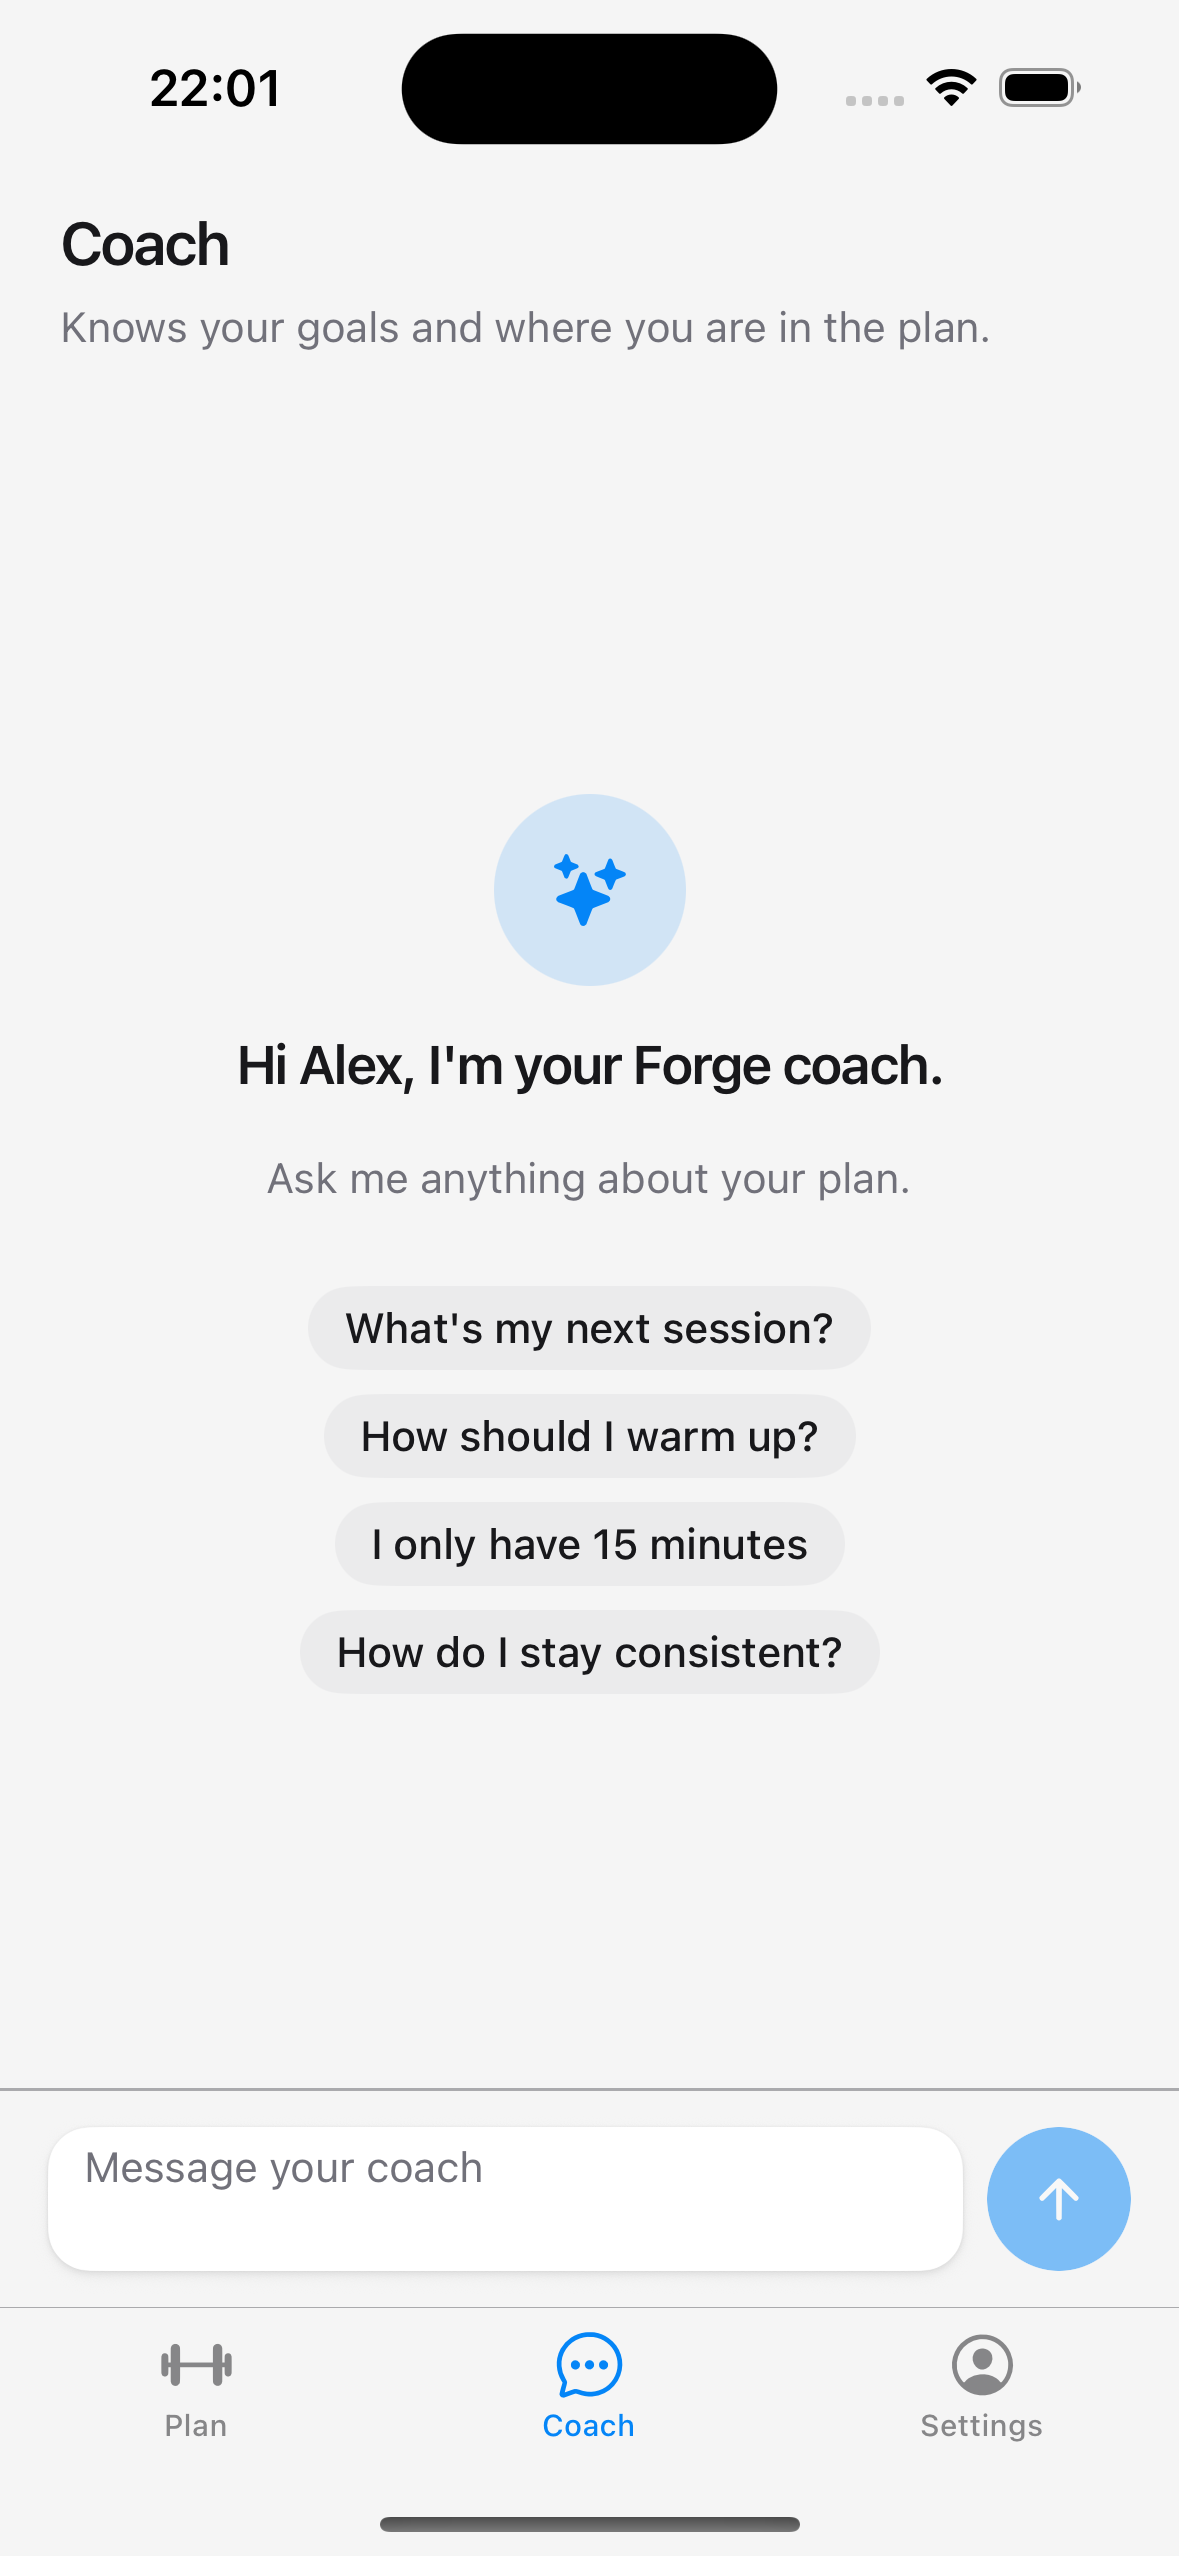
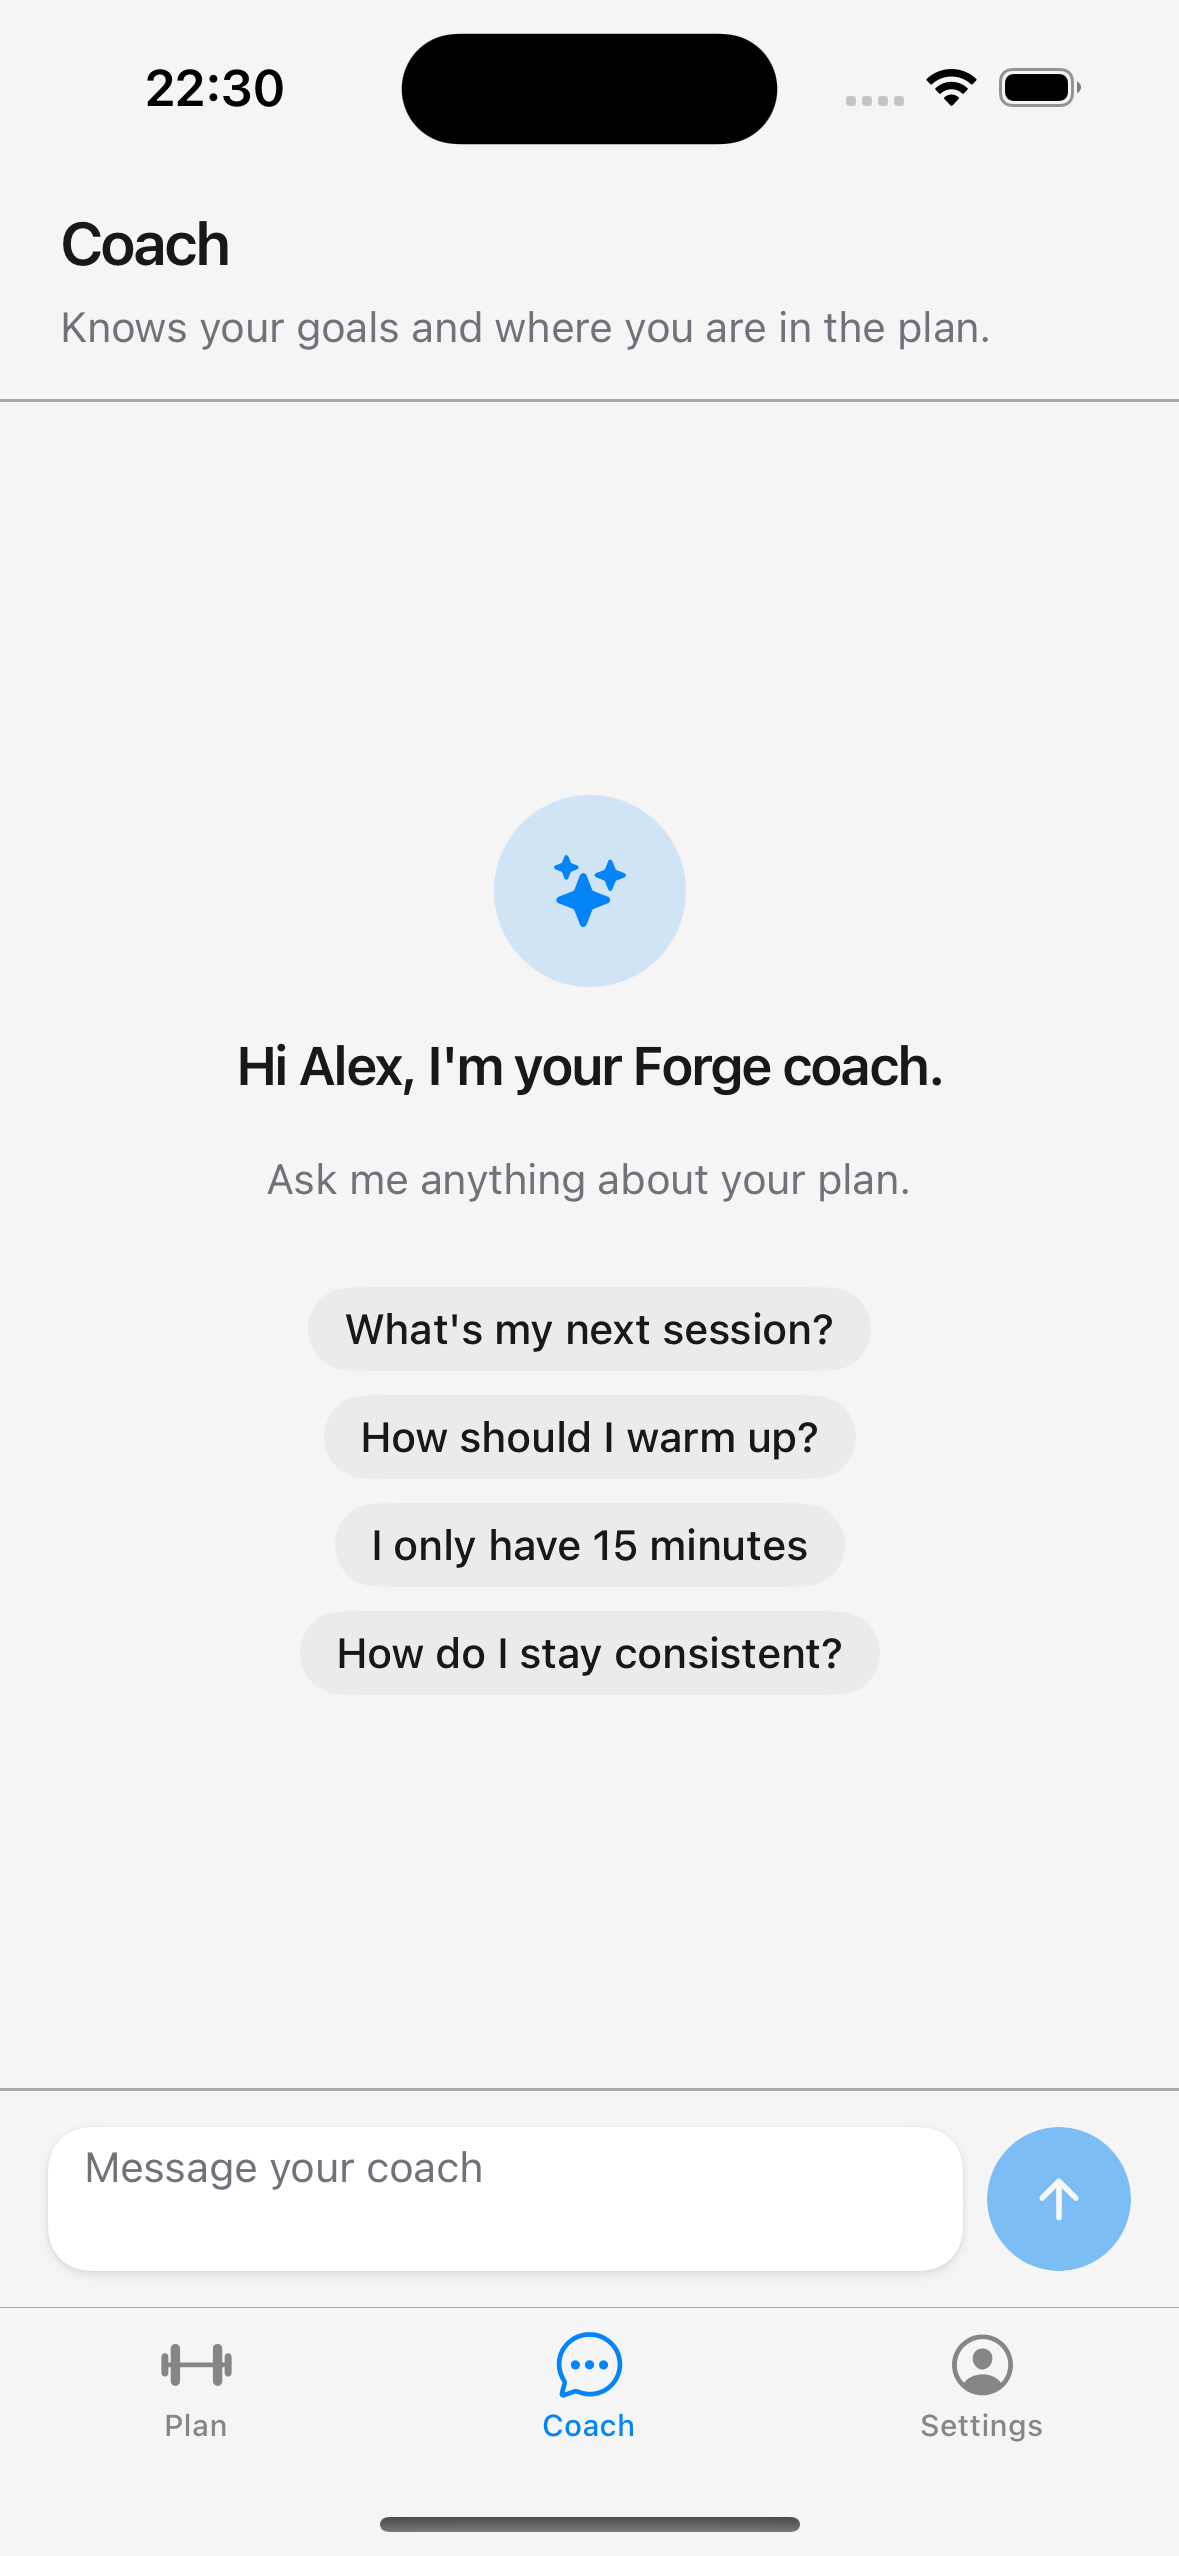
fix(mobile): steady user bubbles and clearer coach states

Changed region(s): [[0.1221, 0.0309, 0.2443, 0.0618]]

diff --git a/apps/mobile/src/features/coach/coach-chat.tsx b/apps/mobile/src/features/coach/coach-chat.tsx
@@ -28,7 +28,8 @@ export function CoachChat() {
     send.mutate(trimmed, {
       onError: () => {
         void Haptics.notificationAsync(Haptics.NotificationFeedbackType.Error);
-        setDraft(trimmed);
+        // Restore the failed text unless the user has already typed something new meanwhile.
+        setDraft((current) => (current.trim() ? current : trimmed));
         setSendError('Message not sent. Check your connection and try again.');
       },
     });
@@ -43,6 +44,7 @@ export function CoachChat() {
         body="Check your connection and try again."
         actionLabel="Try again"
         onAction={() => void history.refetch()}
+        isActionPending={history.isFetching}
       />
     );
   }
@@ -52,7 +54,7 @@ export function CoachChat() {
 
   return (
     <View className="flex-1 bg-background pt-safe">
-      <View className="gap-0.5 px-5 pb-3 pt-2">
+      <View className="gap-0.5 border-b border-separator px-5 pb-3 pt-2">
         <Typography.Heading type="h4">Coach</Typography.Heading>
         <Typography type="body-sm" color="muted">
           Knows your goals and where you are in the plan.
@@ -111,7 +113,13 @@ function EmptyConversation({ name, onPick }: { name: string; onPick: (prompt: st
       </View>
       <View className="flex-row flex-wrap justify-center gap-2">
         {SUGGESTED_PROMPTS.map((prompt) => (
-          <Chip key={prompt} variant="secondary" color="default" onPress={() => onPick(prompt)}>
+          <Chip
+            key={prompt}
+            variant="secondary"
+            color="default"
+            accessibilityRole="button"
+            onPress={() => onPick(prompt)}
+          >
             {prompt}
           </Chip>
         ))}

diff --git a/apps/mobile/src/features/coach/message-bubble.tsx b/apps/mobile/src/features/coach/message-bubble.tsx
@@ -3,13 +3,17 @@ import { cn, Typography } from 'heroui-native';
 import { View } from 'react-native';
 import Animated, { FadeIn, useReducedMotion } from 'react-native-reanimated';
 
+// Only coach bubbles fade in: the user's optimistic bubble is swapped for the server's copy (new
+// id, new cell) on success, so an entering animation would replay on a bubble already on screen.
 export function MessageBubble({ message }: { message: CoachMessage }) {
   const reducedMotion = useReducedMotion();
   const fromUser = message.role === 'user';
   return (
     <Animated.View
-      entering={reducedMotion ? undefined : FadeIn.duration(220)}
+      entering={reducedMotion || fromUser ? undefined : FadeIn.duration(220)}
       className={cn('flex-row', fromUser ? 'justify-end pl-12' : 'justify-start pr-12')}
+      accessible
+      accessibilityLabel={`${fromUser ? 'You' : 'Coach'}: ${message.text}`}
     >
       <View className={cn('rounded-3xl px-4 py-3', fromUser ? 'bg-accent' : 'bg-surface')}>
         <Typography

diff --git a/apps/mobile/src/features/coach/typing-indicator.tsx b/apps/mobile/src/features/coach/typing-indicator.tsx
@@ -30,7 +30,7 @@ function Dot({ delay }: { delay: number }) {
 /** "Coach is typing" while the reply is on its way (600–1200 ms). */
 export function TypingIndicator() {
   return (
-    <View className="flex-row justify-start pr-12" accessibilityLabel="Coach is typing">
+    <View className="flex-row justify-start pr-12" accessible accessibilityLabel="Coach is typing">
       <View className="flex-row items-center gap-1.5 rounded-3xl bg-surface px-4 py-4">
         <Dot delay={0} />
         <Dot delay={160} />

diff --git a/apps/mobile/src/app/(tabs)/coach.tsx b/apps/mobile/src/app/(tabs)/coach.tsx
@@ -14,6 +14,7 @@ export default function CoachScreen() {
         body="Check your connection and try again."
         actionLabel="Try again"
         onAction={() => void entitlement.refetch()}
+        isActionPending={entitlement.isFetching}
       />
     );
   }

diff --git a/docs/decisions/plan-b.md b/docs/decisions/plan-b.md
@@ -25,6 +25,6 @@
 - The paywall's Android status-bar padding is chosen at runtime (`Platform.OS === 'android' && 'pt-safe'`), not with `android:pt-safe` · `android:` variants were observed to apply on iOS with Uniwind 1.12.0 in Expo Go (a plain `android:pt-10` leaked the same way; the cause is not established), which pushed the sheet's content down by the 59 pt top inset and ran the cards into the footer · none; any other `ios:`/`android:` class in the app needs the same treatment
 - The paywall's error Alert renders in the footer, above "Start 7-day trial", instead of at the end of the scroll content · at the end of the content it sat under the footer on an iPhone 16 and needed a scroll to read · while the Alert shows, the taller footer clips the bottom of the selected card (the content still scrolls)
 - The "No purchases to restore on this account." toast covers the paywall's CloseButton for its 4 s · HeroUI's top placement is shared by every toast in the app, the toast can be swiped away and the sheet still dismisses with a swipe down · the close control is unreachable for 4 s after a restore that found nothing
-- Chat bubbles use FadeIn, not the spec's FadeInDown · the list is inverted, so a vertical entering animation would run upside down · a slightly flatter entrance
+- Coach bubbles use FadeIn, not the spec's FadeInDown, and user bubbles don't animate at all · the list is inverted, so a vertical entering animation would run upside down; and the optimistic user bubble is swapped for the server's copy (new id, so a new cell) when the reply lands, which replayed the fade on a bubble already on screen · a slightly flatter entrance, and the user's own bubble simply appears
 - The chat uses keyboard-controller's `KeyboardAvoidingView behavior="padding"` · it measures its own frame, so the tab bar needs no offsets · none
 - A coach send that times out (15 s) is rolled back and never retried, although the server may still complete the queued POST (observed with a frozen API: "Hello" and its reply were in the history after the thaw) · the contract has no idempotency key, so a client retry could only duplicate the message, and the next history fetch (foreground refetch) shows the server's copy · a user who taps Send again after a timeout can end up with the same message twice
